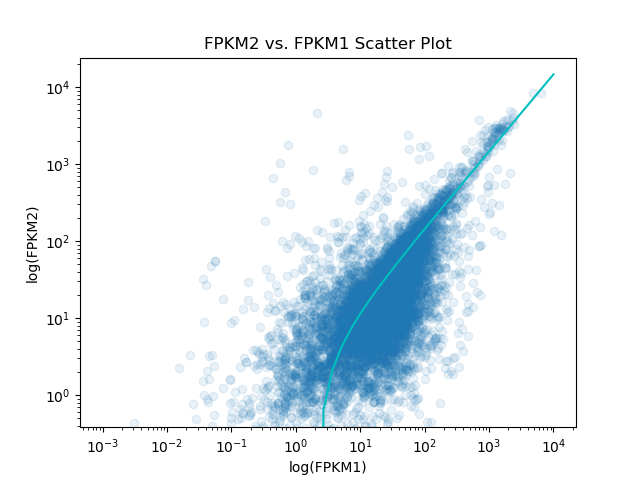
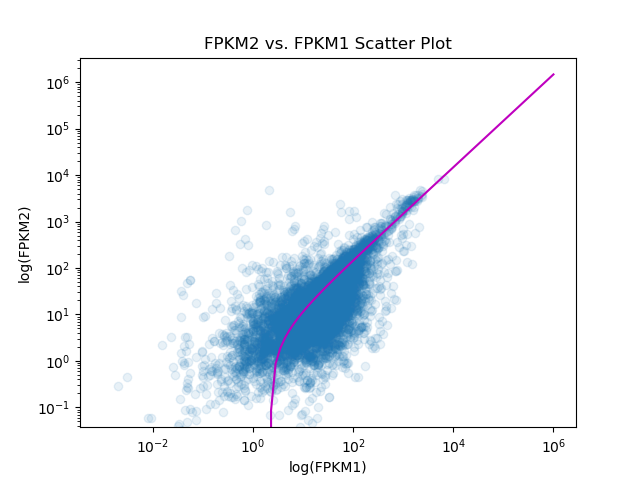
Day 4-lunch: updated script and scatterplot

diff --git a/day4-lunch/day4-exercise2.py b/day4-lunch/day4-exercise2.py
@@ -19,9 +19,9 @@ df2 = pd.read_csv( sys.argv[2], sep="\t", index_col="t_name" )
 fpkm1 =df1.loc[:,"FPKM"]
 fpkm2 =df2.loc[:,"FPKM"]
 
-fit = np.polyfit(fpkm1, fpkm2,1)
+fit = np.polyfit(fpkm1, fpkm2, 1)
 p = np.poly1d(fit)
-xplog = np.logspace(-3, 4, 50)
+xplog = np.logspace(-3, 6, 50)
 
 #for log axis
 fig, ax = plt.subplots()
